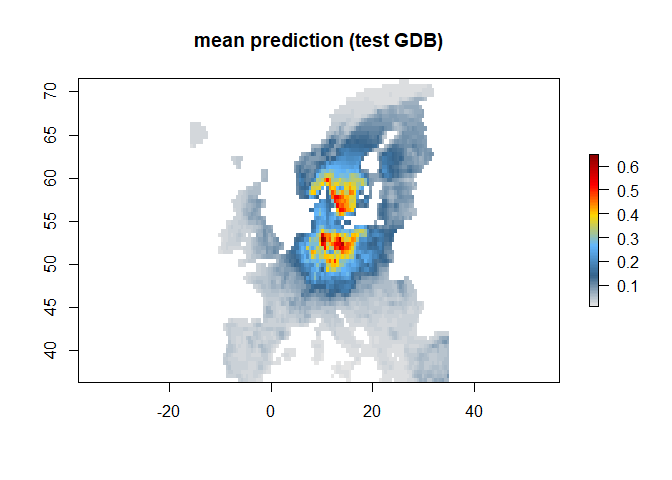
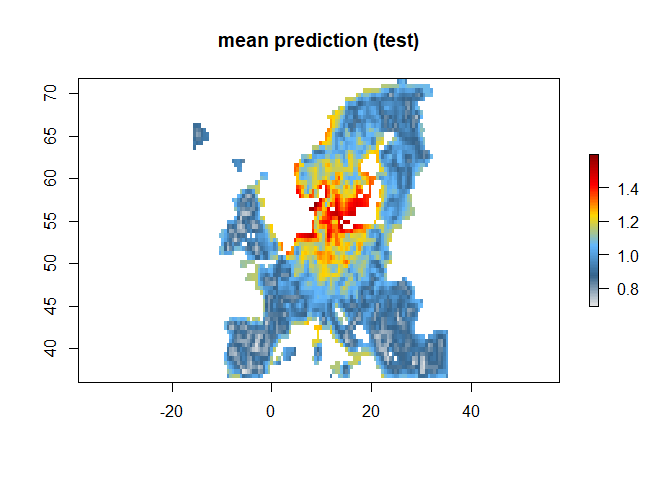
README update and new biodiversity dataset objects

diff --git a/README.md b/README.md
@@ -58,7 +58,7 @@ devtools::install_github("IIASA/ibis")
 -   ✅ Plotting functions for models and effect are there
 -   🚧 Actually support multiple likelihoods depending on included
     biodiversity dataset
--   🚧 Add a wrapper for PPMs in Stan as new engine
+-   🚧 Add a wrapper for PPMs in Stan as new engine for max flexibility
 -   🚧 Implement options to add occupancy model for detectability, see
     [Altwegg and
     Nichols](https://onlinelibrary.wiley.com/doi/abs/10.1111/2041-210X.13090)
@@ -69,6 +69,8 @@ devtools::install_github("IIASA/ibis")
     [outperforms](https://arxiv.org/pdf/1204.6087v1.pdf) Matern
     covariance? It likely is also considerably faster, thus could be
     implemented
+-   🚧 Create a pkgdown website for the package with tutorials (see
+    below)
 -   …
 
 ## Development guidelines
@@ -181,6 +183,35 @@ Other datasets can be added to the call above as well as for instance
 specific latent factors \[`add_latent_spatial()`\] or offsets
 \[`add_range_offset()`\].
 
+Equally it is possible to run poisson models with spatial latent effect
+on their (equivalent to a kernel density estimation)
+
+``` r
+# Distribution model with spatial only
+spatialonly <- distribution(background) %>%
+  add_biodiversity_poipo(virtual_points, field_occurrence = 'Observed', name = 'Virtual points') %>%
+  add_latent_spatial() %>%
+  engine_inla(
+    max.edge = c(1, 5),
+    offset = c(1, 1),
+    cutoff = 1,
+    proj_stepsize = NULL
+    )
+
+# Train a model
+mod1_spatialonly <- train(spatialonly, runname = 'test')
+#> Warning in sparse.model.matrix(object, data = data, contrasts.arg =
+#> contrasts.arg, : variable 'int.strategy' is absent, its contrast will be ignored
+
+#> Warning in sparse.model.matrix(object, data = data, contrasts.arg =
+#> contrasts.arg, : variable 'int.strategy' is absent, its contrast will be ignored
+#> Warning in points2grid(points, tolerance, round): grid has empty column/rows in
+#> dimension 1
+plot(mod1_spatialonly)
+```
+
+![](man/figures/README-unnamed-chunk-4-1.png)<!-- -->
+
 ### Alternative to INLA - Use Gradient Descent Boosting
 
 ``` r
@@ -209,11 +240,11 @@ mod2
 plot(mod2)
 ```
 
-![](man/figures/README-unnamed-chunk-4-1.png)<!-- -->
+![](man/figures/README-unnamed-chunk-5-1.png)<!-- -->
 
 ``` r
 # Plot the partial effects
 effects(mod2)
 ```
 
-![](man/figures/README-unnamed-chunk-4-2.png)<!-- -->
+![](man/figures/README-unnamed-chunk-5-2.png)<!-- -->
